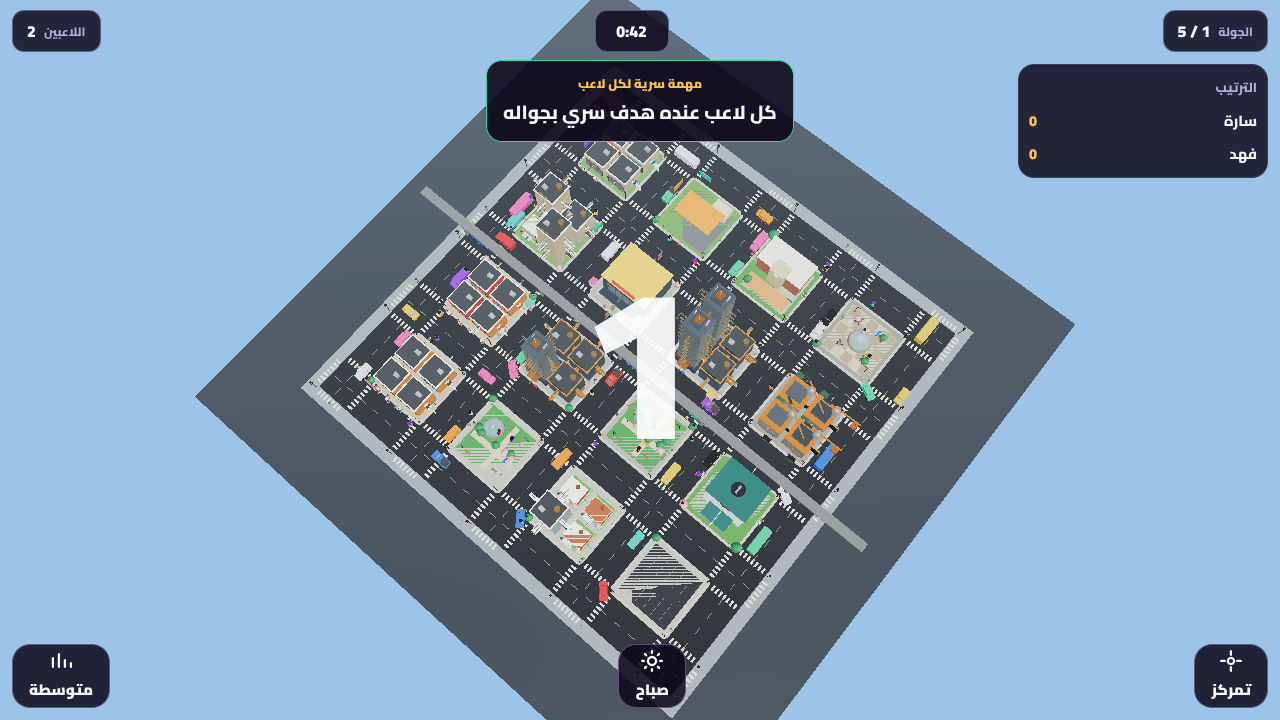
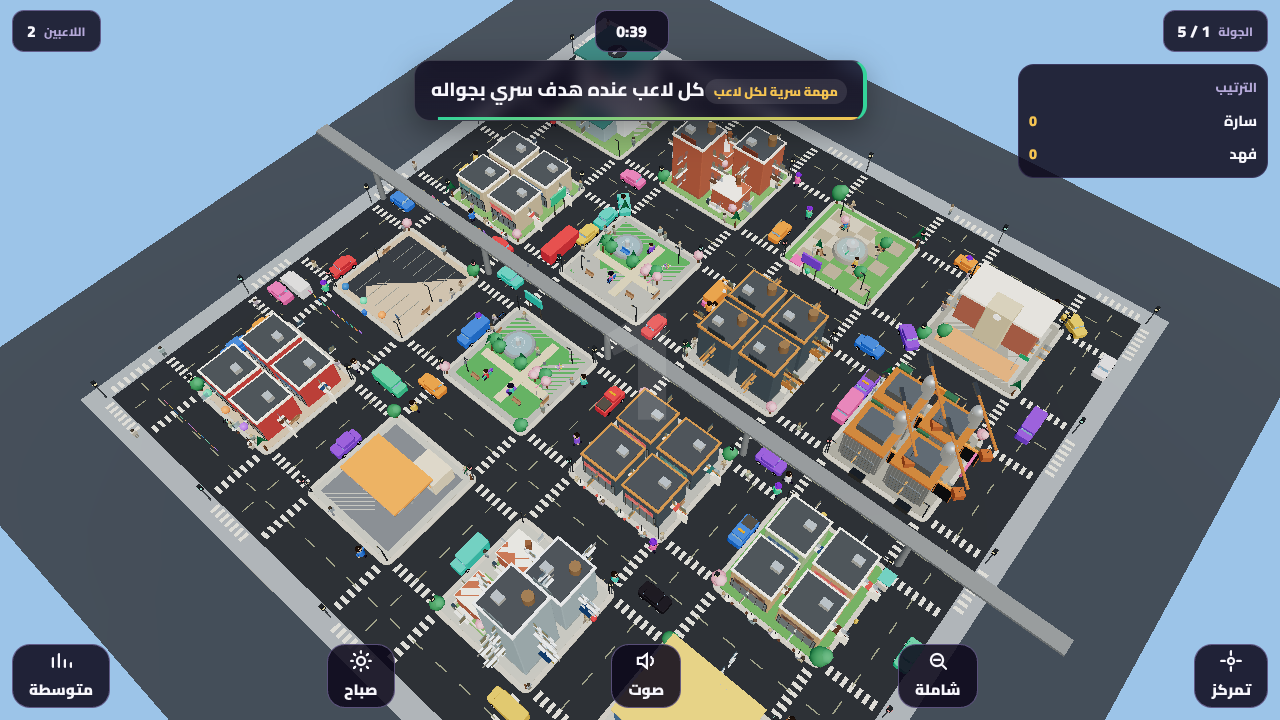
tiny-city: camera levels + cutaway, sound mixer + city life audio, HUD card, event tests
Claude-Session: https://claude.ai/code/session_01VoXTrrG5AgcSphSGJW8tHD

diff --git a/jam3atna/games/tiny-city.js b/jam3atna/games/tiny-city.js
@@ -2,7 +2,7 @@
 // والإجابة الصحيحة غير موجودة هنا إطلاقًا — نرسل «اختياري هو كذا» والخادم يحكم.
 import { genCity, entState, lightState, roadAt, blockAt, COLORS, CITY, CITY_SIZE, buildingLabel } from '../shared/city-sim.js';
 import { createStage, addLights, kit, h, fmtTime, esc } from '../shared/three-kit.js';
-import { sfx, ambience, stopAmb } from '../shared/audio.js';
+import { sfx, ambience, stopAmb, cityLife, rainAmb, sound } from '../shared/audio.js';
 import { createCityArt, DISTRICT_NAME, DISTRICT_GRID } from './city/city-arch.js';
 import { createCrowd } from './city/crowd.js';
 import { createEventFx } from './city/events-fx.js';
@@ -26,6 +26,8 @@ export function mount(ctx) {
     <div class="g-mission" id="c-mission" hidden></div><div class="g-spacer"></div>
     <div class="g-confirm" id="c-confirm" hidden><span id="c-sel"></span><button class="j3-btn j3-btn-main j3-btn-sm" id="c-yes">تأكيد</button><button class="j3-btn j3-btn-quiet" id="c-no">إلغاء</button></div>
     <div class="g-bottom"><button class="g-btn" id="c-reset" aria-label="إعادة تمركز الكاميرا"><svg viewBox="0 0 24 24" fill="none" stroke="currentColor" stroke-width="2.2" stroke-linecap="round"><circle cx="12" cy="12" r="3"/><path d="M12 2v4M12 18v4M2 12h4M18 12h4"/></svg>تمركز</button>
+      <button class="g-btn" id="c-lv" aria-label="مستوى التقريب"><svg viewBox="0 0 24 24" fill="none" stroke="currentColor" stroke-width="2.2" stroke-linecap="round"><circle cx="11" cy="11" r="6"/><path d="M20 20l-4-4M8 11h6"/></svg><span id="c-lvl"></span></button>
+      <button class="g-btn" id="c-s" aria-label="الصوت"><svg viewBox="0 0 24 24" fill="none" stroke="currentColor" stroke-width="2.2" stroke-linecap="round"><path d="M4 9v6h4l5 4V5L8 9H4zM17 8a5 5 0 010 8"/></svg>صوت</button>
       <button class="g-btn" id="c-t" aria-label="وقت اليوم"><svg viewBox="0 0 24 24" fill="none" stroke="currentColor" stroke-width="2.2" stroke-linecap="round"><circle cx="12" cy="12" r="4"/><path d="M12 2v2M12 20v2M4.9 4.9l1.4 1.4M17.7 17.7l1.4 1.4M2 12h2M20 12h2M4.9 19.1l1.4-1.4M17.7 6.3l1.4-1.4"/></svg><span id="c-tl"></span></button>
       <button class="g-btn" id="c-q" aria-label="جودة الرسومات"><svg viewBox="0 0 24 24" fill="none" stroke="currentColor" stroke-width="2.2" stroke-linecap="round"><path d="M4 18V9M10 18V5M16 18v-7M22 18v-4"/></svg><span id="c-ql"></span></button></div>`;
   const $ = (s) => hud.querySelector(s);
@@ -34,6 +36,12 @@ export function mount(ctx) {
   $('#c-q').onclick = () => { const o = ['low', 'medium', 'high']; stage.setQuality(o[(o.indexOf(stage.level) + 1) % 3], true); sfx.tap(); };
   $('#c-reset').onclick = () => { flyTo(0, 0, 120, 0.7, 0.95, 0.7); sfx.tap(); };
   const TL = { morning: 'صباح', sunset: 'غروب', night: 'ليل' }; $('#c-tl').textContent = TL[todMode] || 'صباح'; $('#c-t').onclick = () => { const o = ['morning', 'sunset', 'night']; todMode = o[(o.indexOf(todMode) + 1) % 3]; $('#c-tl').textContent = TL[todMode]; applyTod(); sfx.tap(); };
+  // مستويات الاستكشاف: نظرة شاملة / الحي / التفاصيل — انتقال سلس بين المستويات
+  const LV = [['شاملة', 125, 0.95], ['الحي', 62, 0.72], ['التفاصيل', 30, 0.52]]; const lvOf = () => (cam.dist > 90 ? 0 : cam.dist > 44 ? 1 : 2);
+  $('#c-lv').onclick = () => { const n = (lvOf() + 1) % 3; const t = LV[n]; flyTo(cam.tx, cam.tz, t[1], cam.yaw, t[2], 1.1); sfx.tap(); };
+  const sp = h('div', 'g-sndp'); sp.hidden = true; sp.innerHTML = '<label>المؤثرات<input type="range" min="0" max="100" id="c-sv"></label><label>أجواء المدينة<input type="range" min="0" max="100" id="c-av"></label><label>الصوت العام<input type="range" min="0" max="100" id="c-mv"></label>'; el.appendChild(sp);
+  $('#c-s').onclick = () => { sp.hidden = !sp.hidden; sfx.tap(); }; sp.querySelector('#c-sv').value = Math.round(sound.sfxVol * 100); sp.querySelector('#c-av').value = Math.round(sound.ambVol * 100); sp.querySelector('#c-mv').value = Math.round(sound.vol * 100);
+  sp.querySelector('#c-sv').oninput = (e) => sound.setSfxVol(e.target.value / 100); sp.querySelector('#c-av').oninput = (e) => sound.setAmbVol(e.target.value / 100); sp.querySelector('#c-mv').oninput = (e) => sound.setVol(e.target.value / 100);
   $('#c-no').onclick = () => select(null);
   $('#c-yes').onclick = () => { if (!S.sel || !S.round || S.done) return; net.g({ k: 'pick', id: S.sel.id, round: S.round.round }); sfx.tap(); select(null); };
   function banner(text, sub) { const b = h('div', 'g-banner', `<div>${esc(text)}${sub ? `<small>${esc(sub)}</small>` : ''}</div>`); el.appendChild(b); later(1900, () => b.remove()); }
@@ -93,7 +101,7 @@ export function mount(ctx) {
     // سكة القطار المرتفعة (يمر عليها القطار في حدث «مرور قطار»)
     const tz = roadAt(2) + 2.6; p.push(K.box(CITY_SIZE + 24, 0.4, 2.2, 0x8a8f94, 0, 7.5, tz)); for (let x = -HALF; x <= HALF; x += PITCH_) p.push(K.cyl(0.4, 0.5, 7.4, 0x8a8f94, x + 0.2, 3.7, tz, 8));
     const base = K.mesh(p, { cast: false }); scene.add(base);
-    for (const b of world.buildings) { const m = art.buildingMesh(b); m.userData.pick = { id: b.id, kind: 'b', label: buildingLabel(b), h: Math.max(b.h, 1.5) + 2 }; scene.add(m); S.bld.set(b.id, m); }
+    for (const b of world.buildings) { const m = art.buildingMesh(b); m.userData.pick = { id: b.id, kind: 'b', label: buildingLabel(b), h: Math.max(b.h, 1.5) + 2 }; m.geometry.computeBoundingBox(); m.userData.b = { x: b.x, z: b.z, w: b.w, d: b.d, vh: m.geometry.boundingBox.max.y + 0.16 }; scene.add(m); S.bld.set(b.id, m); }
     for (const e of world.ents) addEnt(e);
     S.ambient = art.createAmbient(world, scene);
     S.crowd = createCrowd(THREE, scene, { world, CITY, blockAt, roadAt, lightState, DISTRICT_GRID, seed }); S.fx2 = createEventFx(THREE, scene, art, { world, CITY, roadAt, blockAt, CITY_SIZE, DISTRICT_GRID, crowd: S.crowd });
@@ -132,11 +140,11 @@ export function mount(ctx) {
   const onMove = (e) => {
     const p = ptrs.get(e.pointerId); if (!p) return; const dx = e.clientX - p[0], dy = e.clientY - p[1]; p[0] = e.clientX; p[1] = e.clientY; moved += Math.abs(dx) + Math.abs(dy);
     if (ptrs.size === 1) { if (e.buttons === 2 || e.shiftKey) pan(dx, dy); else { cam.yaw -= dx * 0.006; cam.pitch = Math.max(0.35, Math.min(1.45, cam.pitch + dy * 0.005)); } }
-    else if (ptrs.size === 2) { const [a, b] = [...ptrs.values()]; const d = Math.hypot(a[0] - b[0], a[1] - b[1]); const mid = [(a[0] + b[0]) / 2, (a[1] + b[1]) / 2]; if (pinch) cam.dist = Math.max(18, Math.min(190, cam.dist * pinch / d)); if (lastMid) pan(mid[0] - lastMid[0], mid[1] - lastMid[1]); pinch = d; lastMid = mid; }
+    else if (ptrs.size === 2) { const [a, b] = [...ptrs.values()]; const d = Math.hypot(a[0] - b[0], a[1] - b[1]); const mid = [(a[0] + b[0]) / 2, (a[1] + b[1]) / 2]; if (pinch) cam.dist = Math.max(14, Math.min(190, cam.dist * pinch / d)); if (lastMid) pan(mid[0] - lastMid[0], mid[1] - lastMid[1]); pinch = d; lastMid = mid; }
   };
   function pan(dx, dy) { const k = cam.dist * 0.0016; cam.tx -= (Math.cos(cam.yaw) * dx + Math.sin(cam.yaw) * dy) * k; cam.tz -= (-Math.sin(cam.yaw) * dx + Math.cos(cam.yaw) * dy) * k; cam.tx = Math.max(-HALF, Math.min(HALF, cam.tx)); cam.tz = Math.max(-HALF, Math.min(HALF, cam.tz)); }
   const onUp = (e) => { const was = ptrs.size; ptrs.delete(e.pointerId); pinch = 0; lastMid = null; if (was === 1 && moved < 9 && performance.now() - downAt < 450) tap(e.clientX, e.clientY); }; // السحب لا يُحتسب اختيارًا
-  const onWheel = (e) => { e.preventDefault(); cam.dist = Math.max(18, Math.min(190, cam.dist * (1 + Math.sign(e.deltaY) * 0.1))); cam.g = null; };
+  const onWheel = (e) => { e.preventDefault(); cam.dist = Math.max(14, Math.min(190, cam.dist * (1 + Math.sign(e.deltaY) * 0.1))); cam.g = null; };
   cv.addEventListener('pointerdown', onDown); cv.addEventListener('pointermove', onMove); cv.addEventListener('pointerup', onUp); cv.addEventListener('pointercancel', onUp); cv.addEventListener('wheel', onWheel, { passive: false }); cv.addEventListener('contextmenu', (e) => e.preventDefault());
 
   const ray = new THREE.Raycaster(), v2 = new THREE.Vector2(), v3 = new THREE.Vector3();
@@ -169,7 +177,12 @@ export function mount(ctx) {
     if (S.rain.visible) { const a = S.rain.geometry.attributes.position; for (let i = 0; i < a.count; i++) { let y = a.getY(i) - dt * 45; if (y < 0) y += 60; a.setY(i, y); } a.needsUpdate = true; }
     if (S.dark.visible) { const m = S.dark.material; m.opacity += ((S.darkOn ? 0.62 : 0) - m.opacity) * Math.min(1, dt * 4); if (!S.darkOn && m.opacity < 0.02) S.dark.visible = false; }
     for (const f of S.fx) f(dt, t);
-    if (S.round && !S.done) { const left = S.round.endAt - now; const tm = $('#c-timer'); tm.textContent = fmtTime(left); const low = left < 10000 && left > 0; if (low !== tm.classList.contains('is-low')) tm.classList.toggle('is-low', low); if (low && Math.floor(left / 1000) !== S.lastBeep) { S.lastBeep = Math.floor(left / 1000); sfx.low(); } }
+    if (S.round && !S.done) { const left = S.round.endAt - now; const dur = S.round.endAt - (S.rs || S.round.endAt - 60000); $('#c-mission').style.setProperty('--p', Math.max(0, Math.min(1, left / Math.max(1000, dur)))); hud.classList.toggle('is-last', left < 10000 && left > 0); const tm = $('#c-timer'); tm.textContent = fmtTime(left); const low = left < 10000 && left > 0; if (low !== tm.classList.contains('is-low')) tm.classList.toggle('is-low', low); if (low && Math.floor(left / 1000) !== S.lastBeep) { S.lastBeep = Math.floor(left / 1000); sfx.low(); } }
+    // قطع المباني الحاجبة (Cutaway): عند التقريب تنخفض المباني الواقعة بين الكاميرا والهدف تدريجيًا (لا تكشف أي معلومة)
+    S.occT = (S.occT || 0) + dt; if (S.occT > 0.12) { S.occT = 0; const near = cam.dist < 85; const cx = camera.position.x, cz = camera.position.z, cy = camera.position.y; const dx = cam.tx - cx, dz = cam.tz - cz, L2 = dx * dx + dz * dz || 1;
+      S.bld.forEach((m, id) => { const b = m.userData.b; if (!b) return; let tgt = 1; if (near && b.vh > 6) { const t = ((b.x - cx) * dx + (b.z - cz) * dz) / L2; if (t > 0.05 && t < 0.97) { const px = cx + dx * t, pz = cz + dz * t; const hw = Math.max(b.w, b.d) * 0.55; if (Math.abs(px - b.x) < hw && Math.abs(pz - b.z) < hw && b.vh > cy * (1 - t) + 1) tgt = 0.3; } } m.userData.occ = tgt; }); }
+    S.bld.forEach((m) => { const o = m.userData.occ; if (o == null) return; const k = Math.min(1, dt * 6); m.scale.y += (o - m.scale.y) * k; });
+    const lvn = LV[lvOf()][0]; if (lvn !== S.lvn) { S.lvn = lvn; $('#c-lvl').textContent = lvn; }
     camUpdate(dt);
   };
   const EV = { blackout: ['انقطعت الكهرباء!', 'جزء من المدينة صار ظلام'], rain: ['بدأ المطر', 'الرؤية صارت أصعب شوي'], train: ['قطار يمر!', 'ممكن يغطي عليك لثواني'], jam: ['زحمة مفاجئة!', 'السيارات واقفة بالتقاطع'], rush: ['ساعة الذروة!', 'ازدحام كبير في وسط المدينة'], convoy: ['موكب يمر!', 'مركبات مميزة تعبر أحد الشوارع'], festival: ['مهرجان المدينة!', 'الناس يتجمعون في الساحة'], market: ['سوق نشط!', 'حركة كبيرة في المنطقة التجارية'], closure: ['إغلاق شارع!', 'السيارات تنتظر عند التقاطع'] };
@@ -177,13 +190,13 @@ export function mount(ctx) {
     if (ev.type === 'blackout') { S.dark.position.set((ev.qx ? 1 : -1) * HALF / 2, 13, (ev.qz ? 1 : -1) * HALF / 2); S.dark.visible = true; S.darkOn = true; }
     if (ev.type === 'rain') { S.rain.visible = true; lights.sun.intensity = 0.55; lights.hemi.intensity = 0.48; }
     if (ev.type === 'train') S.train.visible = true;
-    if (S.fx2) S.fx2.start(ev); if (ev.type === 'jam' || ev.type === 'rush' || ev.type === 'closure') S.pauses.push({ t0: ev.t0, dur: ev.dur / 1000, ids: new Set(ev.ids) }); }
-  function endEvent(ev) { if (S.fx2) S.fx2.end(ev); if (ev.type === 'blackout') S.darkOn = false; if (ev.type === 'rain') { S.rain.visible = false; lights.sun.intensity = S_base.sun; lights.hemi.intensity = S_base.hemi; } if (ev.type === 'train') S.train.visible = false; }
+    if (ev.type === 'rain') rainAmb(true); if (S.fx2) S.fx2.start(ev); if (ev.type === 'jam' || ev.type === 'rush' || ev.type === 'closure') S.pauses.push({ t0: ev.t0, dur: ev.dur / 1000, ids: new Set(ev.ids) }); }
+  function endEvent(ev) { if (ev.type === 'rain') rainAmb(false); if (S.fx2) S.fx2.end(ev); if (ev.type === 'blackout') S.darkOn = false; if (ev.type === 'rain') { S.rain.visible = false; lights.sun.intensity = S_base.sun; lights.hemi.intensity = S_base.hemi; } if (ev.type === 'train') S.train.visible = false; }
 
   // ------------------------------------------------------------ رسائل الخادم
   function clearActors() { S.actors.forEach((m) => { scene.remove(m); m.traverse((o) => { if (o.geometry) o.geometry.dispose(); }); }); S.actors.clear(); }
   function onMission(d) {
-    S.round = d; S.done = !!d.done; S.event = d.event ? Object.assign({}, d.event) : null; S.beacon.visible = false; select(null); clearActors(); S.lastBeep = -1;
+    S.round = d; S.rs = net.now(); S.done = !!d.done; S.event = d.event ? Object.assign({}, d.event) : null; S.beacon.visible = false; select(null); clearActors(); S.lastBeep = -1;
     $('#c-round b').textContent = d.type === 'tie' ? 'فاصل' : d.round + ' / ' + d.of; const ms = $('#c-mission'); ms.hidden = false;
     if (isHost) { ms.innerHTML = `<small>${esc(d.title)}</small>${d.shared ? 'مهمة مشتركة للجميع — الأسرع يكسب مكافأة!' : 'كل لاعب عنده هدف سري بجواله'}`; cam.auto = true; flyTo(0, 0, 125, cam.yaw, 0.95, 1.4); }
     else if (d.watching) ms.innerHTML = `<small>${esc(d.title)}</small>أنت خارج المنافسة حاليًا — تابع الجولة.`;
@@ -220,7 +233,7 @@ export function mount(ctx) {
   }
   function onMsg(d) {
     if (disposed) return;
-    if (d.k === 'init') { if (S.seed === d.seed) return; S.t0 = d.t0; buildWorld(d.seed); stopAmb(); ambience('city'); cam.dist = 230; cam.pitch = 1.35; flyTo(0, 0, isHost ? 125 : 105, 0.7, 0.95, 4.2); banner('المدينة المصغّرة', 'استعدوا...'); later(3300, () => countdown(3)); drawBoard(); return; }
+    if (d.k === 'init') { if (S.seed === d.seed) return; S.t0 = d.t0; buildWorld(d.seed); stopAmb(); ambience('city'); cityLife(() => Math.max(0.15, 1.25 - cam.dist / 150)); cam.dist = 230; cam.pitch = 1.35; flyTo(0, 0, isHost ? 125 : 105, 0.7, 0.95, 4.2); banner('المدينة المصغّرة', 'استعدوا...'); later(3300, () => countdown(3)); drawBoard(); return; }
     if (!S.world) return;
     if (d.k === 'mission' || d.k === 'round') return onMission(d);
     if (d.k === 'spawn') { clearActors(); d.ents.forEach((e) => { const m = addEnt(e, true); m.visible = false; }); return; }

diff --git a/jam3atna/shared/audio.js b/jam3atna/shared/audio.js
@@ -1,8 +1,8 @@
 // جمعتنا — مؤثرات صوتية أصلية مولّدة بـ WebAudio (بدون ملفات). تُفعَّل بعد أول تفاعل للمستخدم فقط.
-let ctx = null, master = null, on = true, vol = 0.7, amb = null;
-try { on = localStorage.getItem('j3:sound') !== '0'; const v = parseFloat(localStorage.getItem('j3:vol')); if (v >= 0 && v <= 1) vol = v; } catch (e) {}
+let ctx = null, master = null, on = true, vol = 0.7, amb = null, sfxBus = null, ambBus = null, sfxVol = 1, ambVol = 1, life = null, rainN = null;
+try { on = localStorage.getItem('j3:sound') !== '0'; const v = parseFloat(localStorage.getItem('j3:vol')); if (v >= 0 && v <= 1) vol = v; const sv = parseFloat(localStorage.getItem('j3:sfxv')), av = parseFloat(localStorage.getItem('j3:ambv')); if (sv >= 0 && sv <= 1) sfxVol = sv; if (av >= 0 && av <= 1) ambVol = av; } catch (e) {}
 function ac() {
-  if (!ctx) { const A = window.AudioContext || window.webkitAudioContext; if (!A) return null; ctx = new A(); master = ctx.createGain(); master.gain.value = on ? vol : 0; master.connect(ctx.destination); }
+  if (!ctx) { const A = window.AudioContext || window.webkitAudioContext; if (!A) return null; ctx = new A(); master = ctx.createGain(); master.gain.value = on ? vol : 0; master.connect(ctx.destination); sfxBus = ctx.createGain(); sfxBus.gain.value = sfxVol; sfxBus.connect(master); ambBus = ctx.createGain(); ambBus.gain.value = ambVol; ambBus.connect(master); }
   if (ctx.state === 'suspended') ctx.resume().catch(() => {});
   return ctx;
 }
@@ -13,13 +13,13 @@ function tone(f, d, type = 'sine', g = 0.2, at = 0, f2 = null) {
   if (!on || !ctx || ctx.state !== 'running') return; const t = ctx.currentTime + at;
   const o = ctx.createOscillator(), a = ctx.createGain(); o.type = type; o.frequency.setValueAtTime(f, t); if (f2) o.frequency.exponentialRampToValueAtTime(f2, t + d);
   a.gain.setValueAtTime(0.0001, t); a.gain.exponentialRampToValueAtTime(g, t + 0.012); a.gain.exponentialRampToValueAtTime(0.0001, t + d);
-  o.connect(a); a.connect(master); o.start(t); o.stop(t + d + 0.03);
+  o.connect(a); a.connect(sfxBus || master); o.start(t); o.stop(t + d + 0.03);
 }
 function noise(d, g = 0.15, freq = 1200, at = 0, q = 1) {
   if (!on || !ctx || ctx.state !== 'running') return; const t = ctx.currentTime + at; const n = Math.floor(ctx.sampleRate * d);
   const b = ctx.createBuffer(1, n, ctx.sampleRate), c = b.getChannelData(0); for (let i = 0; i < n; i++) c[i] = (Math.random() * 2 - 1) * (1 - i / n);
   const s = ctx.createBufferSource(); s.buffer = b; const f = ctx.createBiquadFilter(); f.type = 'bandpass'; f.frequency.value = freq; f.Q.value = q;
-  const a = ctx.createGain(); a.gain.value = g; s.connect(f); f.connect(a); a.connect(master); s.start(t);
+  const a = ctx.createGain(); a.gain.value = g; s.connect(f); f.connect(a); a.connect(sfxBus || master); s.start(t);
 }
 export const sfx = {
   tap: () => tone(420, 0.06, 'triangle', 0.12),
@@ -46,14 +46,31 @@ export const sfx = {
 };
 /** صوت محيطي خفيف جدًا (مدينة/غرفة). يرجع دالة إيقاف. */
 export function ambience(kind) {
-  stopAmb(); if (!ac()) return stopAmb; const g = ctx.createGain(); g.gain.value = kind === 'city' ? 0.02 : 0.012; g.connect(master);
+  stopAmb(); if (!ac()) return stopAmb; const g = ctx.createGain(); g.gain.value = kind === 'city' ? 0.02 : 0.012; g.connect(ambBus || master);
   const n = ctx.sampleRate * 2; const b = ctx.createBuffer(1, n, ctx.sampleRate), c = b.getChannelData(0); let last = 0;
   for (let i = 0; i < n; i++) { last = (last + (Math.random() * 2 - 1) * 0.04) * 0.985; c[i] = last * 6; }
   const s = ctx.createBufferSource(); s.buffer = b; s.loop = true; const f = ctx.createBiquadFilter(); f.type = 'lowpass'; f.frequency.value = kind === 'city' ? 500 : 260;
   s.connect(f); f.connect(g); s.start(); amb = { s, g }; return stopAmb;
 }
-export function stopAmb() { if (amb) { try { amb.s.stop(); amb.g.disconnect(); } catch (e) {} amb = null; } }
+export function stopAmb() { if (life) { clearInterval(life); life = null; } if (rainN) { try { rainN.s.stop(); rainN.g.disconnect(); } catch (e) {} rainN = null; } if (amb) { try { amb.s.stop(); amb.g.disconnect(); } catch (e) {} amb = null; } }
+/** حياة المدينة الصوتية: أبواق بعيدة، زقزقة، همهمة سوق. getVol() يرجع 0..1 حسب قرب الكاميرا (تقريب = أعلى). صدى مكاني بسيط بالـpan. */
+export function cityLife(getVol = () => 0.5) {
+  if (!ac()) return; if (life) clearInterval(life);
+  const pan = (p) => { const n = ctx.createStereoPanner ? ctx.createStereoPanner() : null; if (n) { n.pan.value = p; n.connect(sfxBus || master); } return n; };
+  const burst = (f, d, g, type, f2, at = 0) => { const t = ctx.currentTime + at; const o = ctx.createOscillator(), a = ctx.createGain(); o.type = type; o.frequency.setValueAtTime(f, t); if (f2) o.frequency.exponentialRampToValueAtTime(f2, t + d); a.gain.setValueAtTime(0.0001, t); a.gain.exponentialRampToValueAtTime(g, t + 0.02); a.gain.exponentialRampToValueAtTime(0.0001, t + d); const pn = pan(Math.random() * 1.6 - 0.8); o.connect(a); a.connect(pn || sfxBus || master); o.start(t); o.stop(t + d + 0.03); };
+  life = setInterval(() => { if (!on || ctx.state !== 'running' || document.hidden) return; const v = Math.max(0.05, Math.min(1, getVol())); const r = Math.random();
+    if (r < 0.3) burst(330 + Math.random() * 60, 0.22, 0.03 * v, 'square', null); // بوق بعيد
+    else if (r < 0.6) { const f = 2400 + Math.random() * 900; burst(f, 0.09, 0.025 * v, 'sine', f * 1.4); burst(f * 1.1, 0.09, 0.02 * v, 'sine', f * 1.5, 0.12); } // طائر
+    else if (r < 0.8) { noise(0.5, 0.04 * v, 500 + Math.random() * 300, 0, 1.2); } // همهمة
+  }, 2600);
+}
+/** مطر محيطي: ضجيج عالي التردد. */
+export function rainAmb(onOff) { if (!ac()) return; if (!onOff) { if (rainN) { try { rainN.s.stop(); rainN.g.disconnect(); } catch (e) {} rainN = null; } return; } if (rainN) return;
+  const n = ctx.sampleRate * 2; const b = ctx.createBuffer(1, n, ctx.sampleRate), c = b.getChannelData(0); for (let i = 0; i < n; i++) c[i] = (Math.random() * 2 - 1) * 0.5; const s = ctx.createBufferSource(); s.buffer = b; s.loop = true; const f = ctx.createBiquadFilter(); f.type = 'highpass'; f.frequency.value = 1800; const g = ctx.createGain(); g.gain.value = 0.03; s.connect(f); f.connect(g); g.connect(ambBus || master); s.start(); rainN = { s, g }; }
 export const sound = {
+  get sfxVol() { return sfxVol; }, get ambVol() { return ambVol; },
+  setSfxVol(v) { sfxVol = Math.max(0, Math.min(1, v)); try { localStorage.setItem('j3:sfxv', String(sfxVol)); } catch (e) {} if (sfxBus) sfxBus.gain.value = sfxVol; },
+  setAmbVol(v) { ambVol = Math.max(0, Math.min(1, v)); try { localStorage.setItem('j3:ambv', String(ambVol)); } catch (e) {} if (ambBus) ambBus.gain.value = ambVol; },
   get on() { return on; }, get vol() { return vol; },
   set(v) { on = !!v; try { localStorage.setItem('j3:sound', on ? '1' : '0'); } catch (e) {} if (master) master.gain.value = on ? vol : 0; },
   setVol(v) { vol = Math.max(0, Math.min(1, v)); try { localStorage.setItem('j3:vol', String(vol)); } catch (e) {} if (master && on) master.gain.value = vol; },

diff --git a/jam3atna/jam3atna.css b/jam3atna/jam3atna.css
@@ -285,3 +285,13 @@ button:focus-visible,a:focus-visible,input:focus-visible{outline:2px solid var(-
 .g-qrow{display:flex;gap:6px;align-items:center;flex-wrap:wrap}.g-qrow span{flex:1 0 100%}
 .g-qrow button{flex:1;min-height:38px;border-radius:10px;border:1px solid var(--line);background:var(--deep);font-weight:800;font-size:13px;color:var(--muted)}
 .g-qrow button[aria-pressed=true]{background:var(--glow);color:#fff;border-color:var(--pale)}
+
+/* ---- المدينة المصغّرة: بطاقة مهمة أنيقة، مستوى التقريب، لوحة الصوت، توتر آخر 10 ثوانٍ */
+.g-mission{position:relative;overflow:hidden;background:linear-gradient(180deg,rgba(14,10,30,.82),rgba(14,10,30,.7));backdrop-filter:blur(8px);-webkit-backdrop-filter:blur(8px);border:1px solid rgba(255,255,255,.14);border-inline-start:4px solid var(--acc);box-shadow:0 10px 30px rgba(0,0,0,.35);animation:g-card-in .5s var(--ease) both}
+.g-mission::after{content:"";position:absolute;inset-inline:0;bottom:0;height:3px;background:linear-gradient(90deg,var(--acc),var(--acc2));transform-origin:right;transform:scaleX(var(--p,1));transition:transform .4s linear}
+.g-mission small{display:inline-block;padding:2px 9px;border-radius:99px;background:rgba(255,255,255,.1);margin-bottom:4px}
+@keyframes g-card-in{from{opacity:0;transform:translateY(-14px) scale(.96)}to{opacity:1;transform:none}}
+.g-sndp{position:absolute;bottom:72px;inset-inline-start:12px;z-index:6;display:grid;gap:8px;padding:12px 14px;border-radius:16px;background:rgba(12,7,26,.92);border:1px solid rgba(255,255,255,.15);font-weight:800;font-size:13px;min-width:210px}
+.g-sndp label{display:grid;gap:4px}.g-sndp input{accent-color:var(--acc)}
+.g-hud.is-last::before{content:"";position:fixed;inset:0;pointer-events:none;box-shadow:inset 0 0 90px rgba(239,68,68,.35);animation:j3-ping 1s ease-in-out infinite;z-index:1}
+@media (prefers-reduced-motion:reduce){.g-hud.is-last::before{animation:none}.g-mission{animation:none}}

diff --git a/jam3atna/games/city/city-arch.js b/jam3atna/games/city/city-arch.js
@@ -33,8 +33,9 @@ export function createCityArt(THREE, renderer, quality = 'medium') {
   function fb(p, b, face, u, y, ww, hh, th, off, c, m) { const [ry, nx, nz] = SIDE[face]; const even = face < 2; const half = (even ? b.d : b.w) / 2; const tx = even ? (face === 0 ? 1 : -1) : 0, tz = even ? 0 : (face === 2 ? -1 : 1);
     p.push(box(ww, hh, th, c, nx * (half + off) + tx * u, y, nz * (half + off) + tz * u, { ry, m })); }
   function windows(p, b, faces, rows, cols, y0, y1, pal, o = {}) {
+    if (quality === 'low') o = Object.assign({}, o, { balcony: false, ac: false, noTrim: true });
     for (const f of faces) { const span = f < 2 ? b.w : b.d; for (let r = 0; r < rows; r++) for (let c = 0; c < cols; c++) { const y = y0 + r * (y1 - y0) / rows + 0.18, u = ((c + 0.5) / cols - 0.5) * span * 0.88; const ww = Math.min(o.maxW || 1.15, span / cols * 0.62), hh = Math.min(o.maxH || 1.2, (y1 - y0) / rows * 0.66);
-      fb(p, b, f, u, y - 0.06, ww + 0.22, 0.1, 0.2, 0.02, pal.trim, 'gloss'); fb(p, b, f, u, y, ww, hh, 0.1, 0.03, pal.glass, 'glass');
+      if (!o.noTrim) fb(p, b, f, u, y - 0.06, ww + 0.22, 0.1, 0.2, 0.02, pal.trim, 'gloss'); fb(p, b, f, u, y, ww, hh, 0.1, 0.03, pal.glass, 'glass');
       const lit = hash(b.id + f + r * 9 + c * 3) < (o.lit == null ? 0.55 : o.lit); if (lit) fb(p, b, f, u, y + 0.06, ww * 0.84, hh * 0.84, 0.03, 0.07, 0xffdc8c, 'emis');
       if (o.balcony && r % 2 === 1) { fb(p, b, f, u, y - 0.1, ww + 0.5, 0.1, 0.8, 0.4, pal.trim, 'gloss'); fb(p, b, f, u, y, ww + 0.5, 0.5, 0.04, 0.78, shade(pal.trim, 0.7), 'metal'); }
       if (o.ac && hash(b.id + 'ac' + r + c) < 0.2) fb(p, b, f, u + ww * 0.7, y + 0.1, 0.5, 0.4, 0.3, 0.28, 0xd9dde0, 'gloss'); } } }
